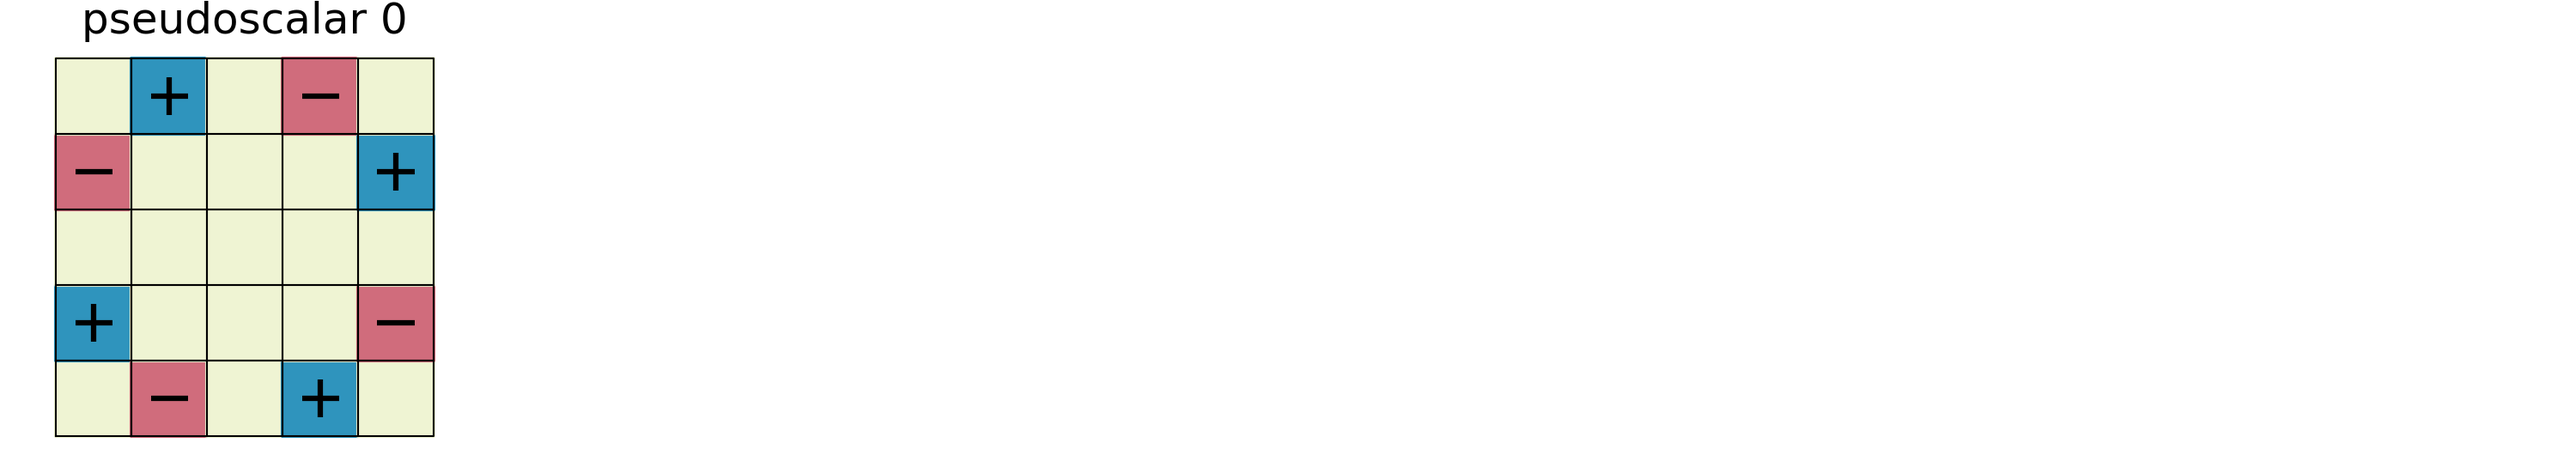
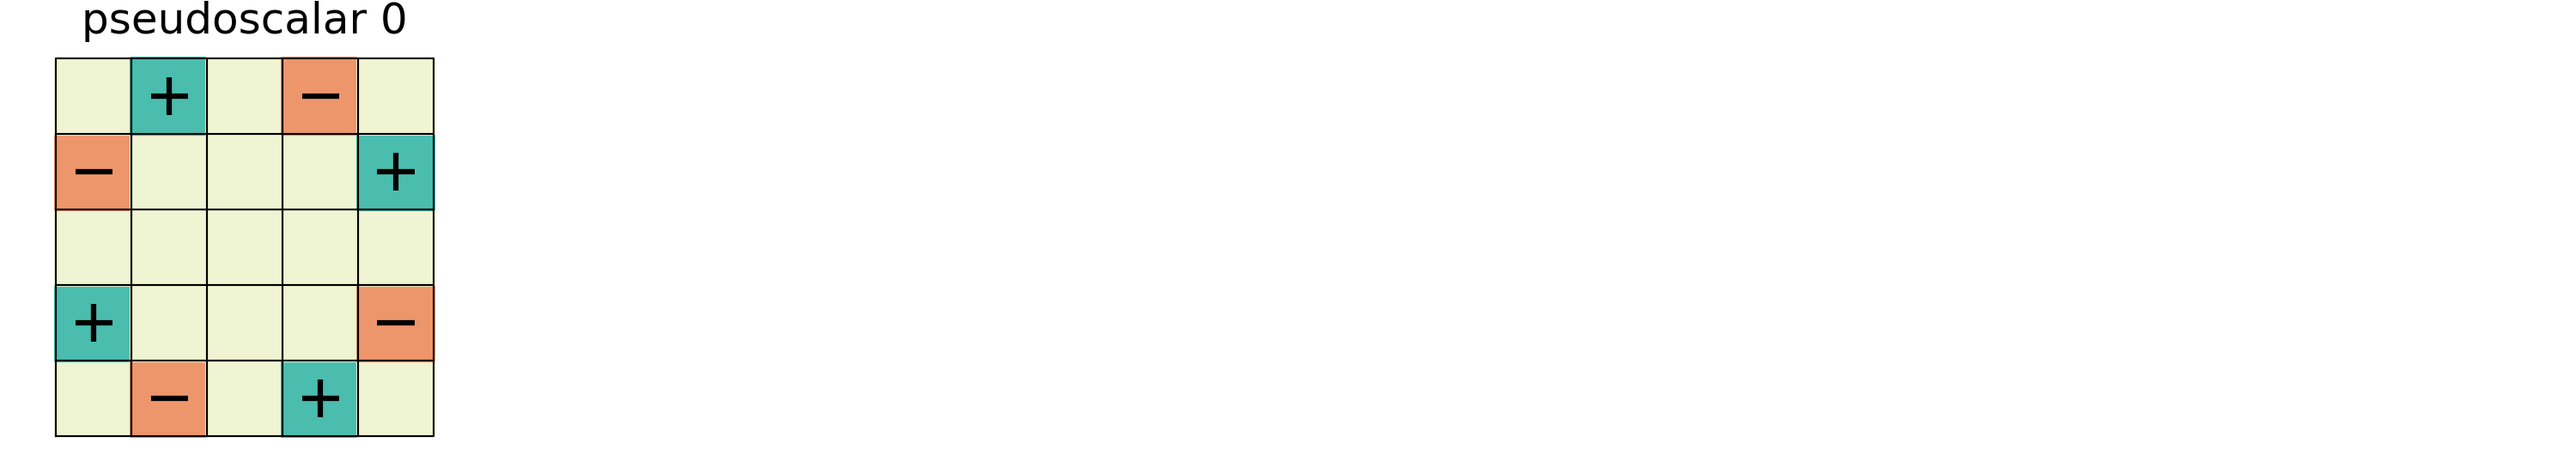
tweaks, unit tests of group actions

Changed region(s): [[0.0, 0.1208, 0.186, 0.483], [0.0, 0.634, 0.186, 0.966]]

diff --git a/notebooks/geometric.py b/notebooks/geometric.py
@@ -2,12 +2,15 @@
 # Core code for GeometricConvolutions
 
 ## License:
-TBD
+Copyright 2022 David W. Hogg and contributors.
+The code in GeometricConvolutions is licensed under the open-source MIT License.
+See the file `LICENSE` for more details.
 
 ## Authors:
 - David W. Hogg (NYU)
 
 ## To-do items:
+- Create tests for group operations on k-tensors.
 - Fix sizing of multi-filter plots.
 - Need to implement index permutation operation.
 - Need to implement Levi-Civita contraction.
@@ -171,6 +174,53 @@ class ktensor:
         letters  = "bcdefghijklmnopqrstuvwxyz"
         einstr = letters[:i] + "a" + letters[i:j-1] + "a" + letters[j-1:self.k-2]
         return ktensor(np.einsum(einstr, self.data), self.parity, self.D)
+
+# Now test group actions on k-tensors:
+def test_group_actions(operators):
+    """
+    # Notes:
+    - This only does minimal tests!
+    """
+    D = len(operators[0])
+
+    for parity in [-1, 1]:
+
+        # vector dot vector
+        v1 = ktensor(np.random.normal(size=D), parity, D)
+        v2 = ktensor(np.random.normal(size=D), parity, D)
+        dots = [(v1.times_group_element(gg)
+                 * v2.times_group_element(gg)).contract(0, 1).data
+                for gg in operators]
+        dots = np.array(dots)
+        if not np.allclose(dots, np.mean(dots)):
+            print("failed (parity = {}) vector dot test.".format(parity))
+            return False
+        print("passed (parity = {}) vector dot test.".format(parity))
+
+        # tensor times tensor
+        T3 = ktensor(np.random.normal(size=(D, D)), parity, D)
+        T4 = ktensor(np.random.normal(size=(D, D)), parity, D)
+        dots = [(T3.times_group_element(gg)
+                 * T4.times_group_element(gg)).contract(1, 2).contract(0, 1).data
+                for gg in operators]
+        dots = np.array(dots)
+        if not np.allclose(dots, np.mean(dots)):
+            print("failed (parity = {}) tensor times tensor test".format(parity))
+            return False
+        print("passed (parity = {}) tensor times tensor test".format(parity))
+
+        # vectors dotted through tensor
+        v5 = ktensor(np.random.normal(size=D), 1, D)
+        dots = [(v5.times_group_element(gg) * T3.times_group_element(gg)
+                 * v2.times_group_element(gg)).contract(1, 2).contract(0, 1).data
+                for gg in operators]
+        dots = np.array(dots)
+        if not np.allclose(dots, np.mean(dots)):
+            print("failed (parity = {}) v T v test.".format(parity))
+            return False
+        print("passed (parity = {}) v T v test.".format(parity))
+    
+    return True
 
 # ------------------------------------------------------------------------------
 # PART 3: Define a geometric (k-tensor) filter.
@@ -365,7 +415,7 @@ def plot_scalar_filter(filter, title, ax=None):
             xs[i], ys[i] = pp
         elif filter.D == 3:
             xs[i], ys[i] = pp[0] + XOFF * pp[2], pp[1] + XOFF * pp[2]
-    plot_scalars(ax, filter.M, xs, ys, ws)
+    plot_scalars(ax, filter.M, xs, ys, ws, vmin=-3., vmax=3.)
     finish_plot(ax, title, filter.pixels(), filter.D)
     return ax
 
